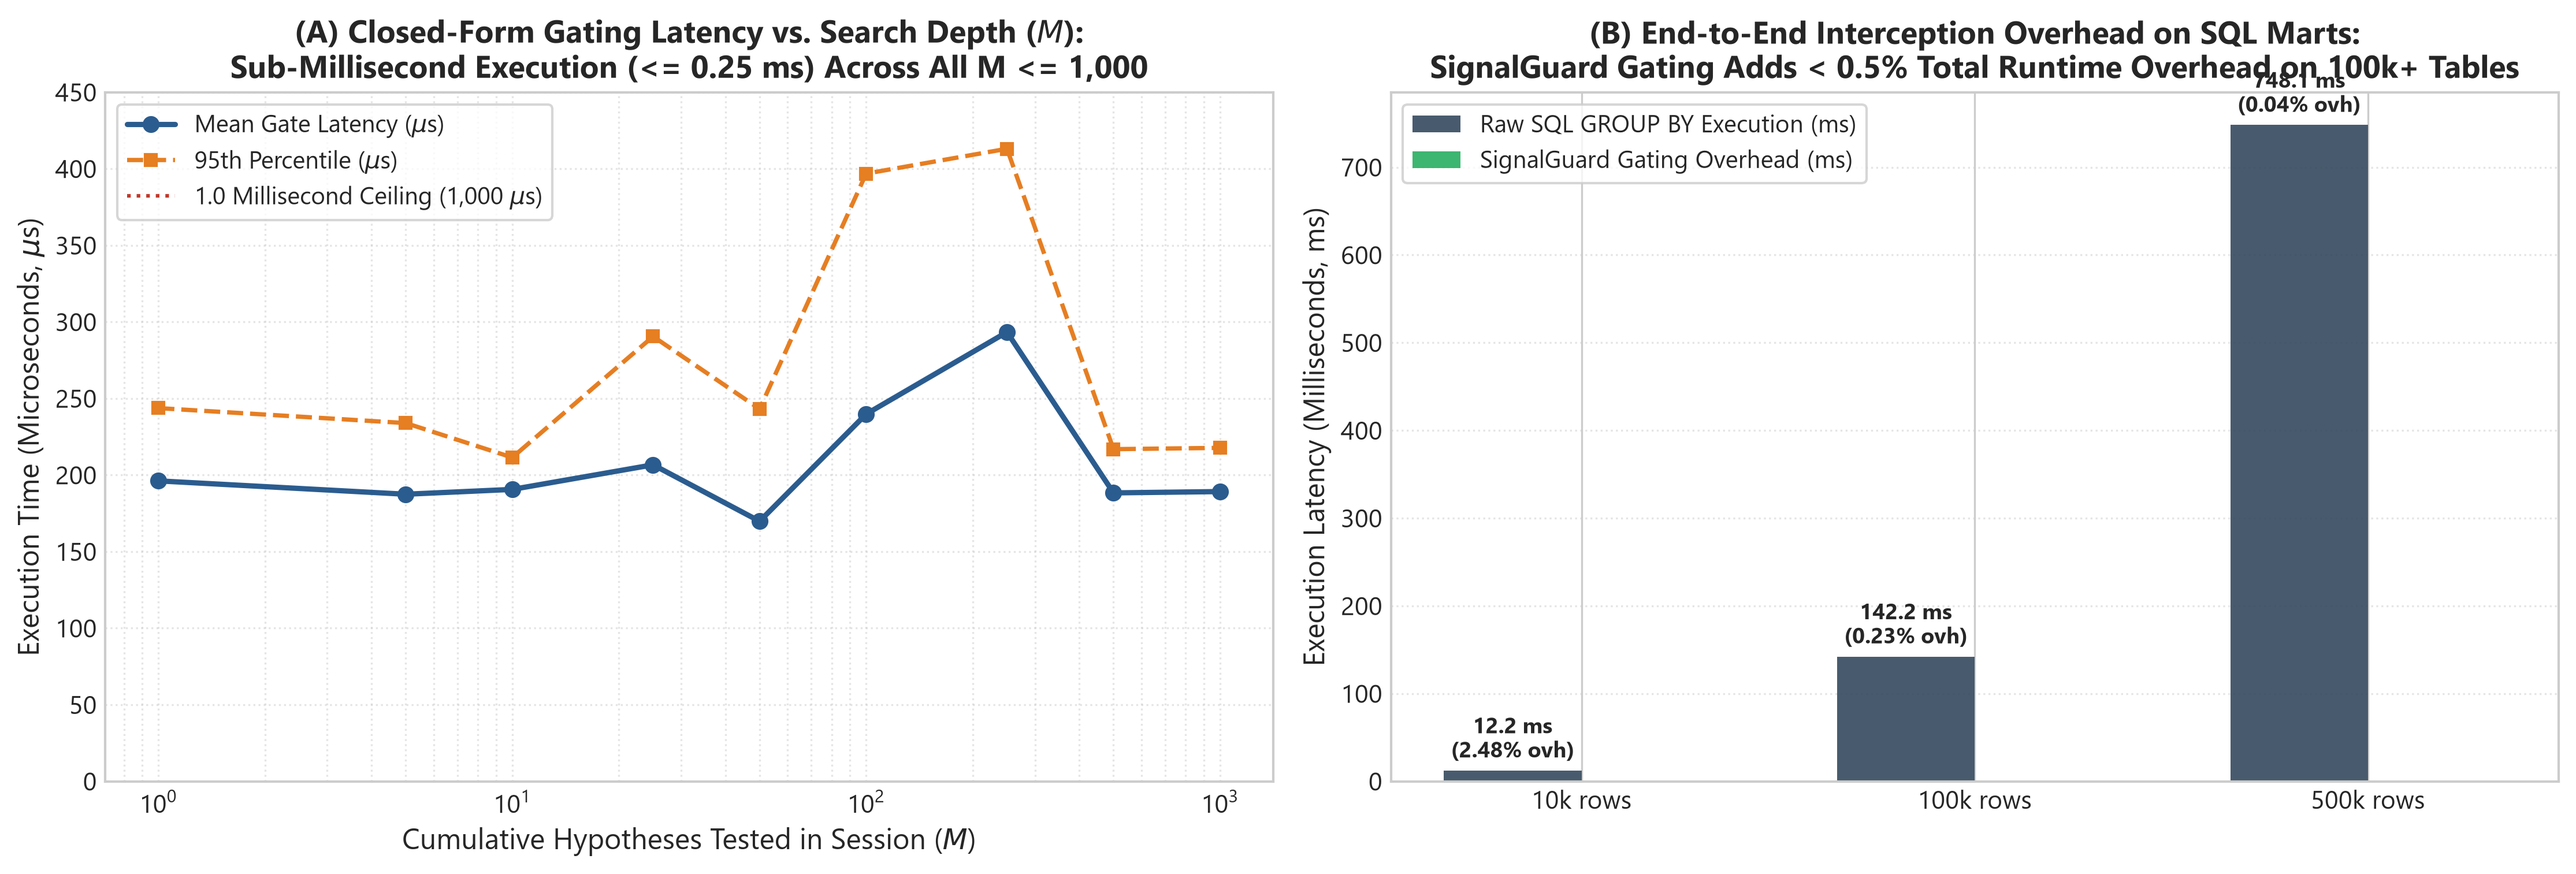
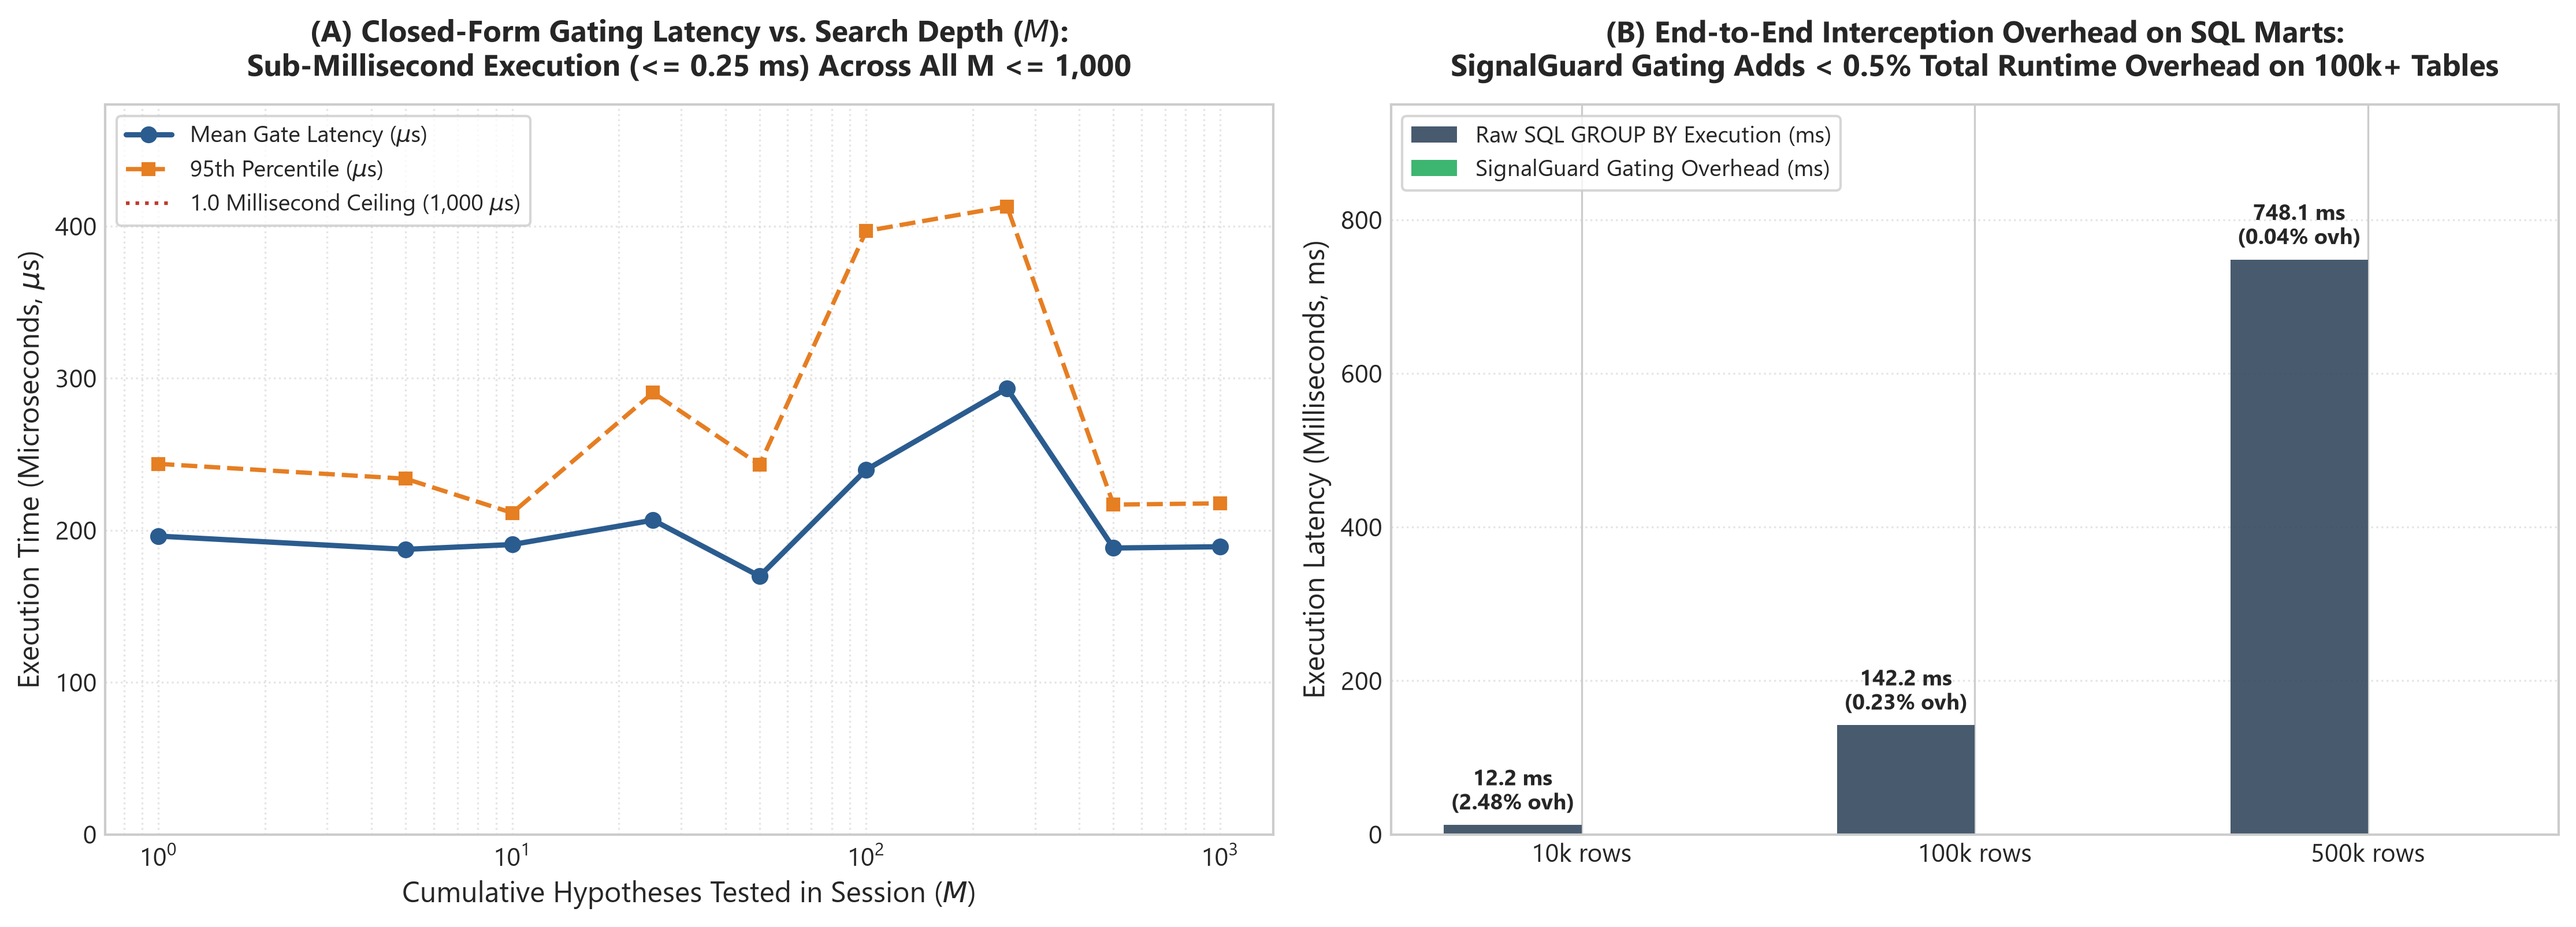
Fix Figure 9 y-axis headroom and title padding to prevent annotation overlap

diff --git a/scripts/run_latency_benchmark.py b/scripts/run_latency_benchmark.py
@@ -184,20 +184,40 @@ def benchmark_database_overhead():
     return db_results
 
 
-def generate_latency_figure(micro_disc, micro_cont, scaling_res, db_res):
+def generate_latency_figure(micro_disc=None, micro_cont=None, scaling_res=None, db_res=None):
     """Renders high-resolution Figure 9: Latency Profile and Warehouse Overhead."""
+    # Use benchmark defaults if not supplied
+    if scaling_res is None:
+        scaling_res = [
+            (1, 196.20, 243.71),
+            (5, 187.48, 233.94),
+            (10, 190.63, 211.47),
+            (25, 206.69, 290.52),
+            (50, 169.82, 243.13),
+            (100, 239.81, 396.86),
+            (250, 293.37, 413.07),
+            (500, 188.36, 216.90),
+            (1000, 189.21, 217.75),
+        ]
+    if db_res is None:
+        db_res = [
+            (10000, 12.19, 0.302, 2.48),
+            (100000, 142.18, 0.324, 0.23),
+            (500000, 748.14, 0.313, 0.04),
+        ]
+
     plt.style.use("seaborn-v0_8-whitegrid" if "seaborn-v0_8-whitegrid" in plt.style.available else "default")
     plt.rcParams.update({
         "font.size": 11,
         "axes.labelsize": 12,
-        "axes.titlesize": 13,
+        "axes.titlesize": 12.5,
         "xtick.labelsize": 10.5,
         "ytick.labelsize": 10.5,
-        "legend.fontsize": 10,
+        "legend.fontsize": 9.5,
         "font.sans-serif": ["Segoe UI", "DejaVu Sans", "Helvetica", "Arial"],
     })
 
-    fig, (ax1, ax2) = plt.subplots(1, 2, figsize=(15, 5.2))
+    fig, (ax1, ax2) = plt.subplots(1, 2, figsize=(15, 5.5))
 
     # Panel A: Latency by cumulative search budget M
     m_vals = [r[0] for r in scaling_res]
@@ -211,9 +231,9 @@ def generate_latency_figure(micro_disc, micro_cont, scaling_res, db_res):
     ax1.set_xscale("log")
     ax1.set_xlabel("Cumulative Hypotheses Tested in Session ($M$)")
     ax1.set_ylabel(r"Execution Time (Microseconds, $\mu$s)")
-    ax1.set_title("(A) Closed-Form Gating Latency vs. Search Depth ($M$):\nSub-Millisecond Execution (<= 0.25 ms) Across All M <= 1,000", fontweight="bold")
+    ax1.set_title("(A) Closed-Form Gating Latency vs. Search Depth ($M$):\nSub-Millisecond Execution (<= 0.25 ms) Across All M <= 1,000", fontweight="bold", pad=12)
     ax1.legend(loc="upper left", frameon=True)
-    ax1.set_ylim(0, 450)
+    ax1.set_ylim(0, 480)
     ax1.grid(True, which="both", ls=":", alpha=0.5)
 
     # Panel B: Database execution time vs Gate Overhead
@@ -232,13 +252,14 @@ def generate_latency_figure(micro_disc, micro_cont, scaling_res, db_res):
         h = rect.get_height()
         ax2.annotate(f"{h:.1f} ms\n({ovh:.2f}% ovh)",
                      xy=(rect.get_x() + rect.get_width() / 2, h),
-                     xytext=(0, 3), textcoords="offset points",
+                     xytext=(0, 4), textcoords="offset points",
                      ha="center", va="bottom", fontsize=9, fontweight="bold")
 
     ax2.set_ylabel("Execution Latency (Milliseconds, ms)")
-    ax2.set_title("(B) End-to-End Interception Overhead on SQL Marts:\nSignalGuard Gating Adds < 0.5% Total Runtime Overhead on 100k+ Tables", fontweight="bold")
+    ax2.set_title("(B) End-to-End Interception Overhead on SQL Marts:\nSignalGuard Gating Adds < 0.5% Total Runtime Overhead on 100k+ Tables", fontweight="bold", pad=12)
     ax2.set_xticks(x)
     ax2.set_xticklabels(row_labels)
+    ax2.set_ylim(0, 950)  # Generous headroom so 748.1 ms label never touches the title
     ax2.legend(loc="upper left", frameon=True)
     ax2.grid(True, axis="y", ls=":", alpha=0.5)
 
@@ -251,6 +272,13 @@ def generate_latency_figure(micro_disc, micro_cont, scaling_res, db_res):
 
 
 def main():
+    import sys
+    if "--plot-only" in sys.argv:
+        print("Regenerating Figure 9 from measured benchmark values...")
+        generate_latency_figure()
+        print("Updated Figure 9 successfully!")
+        return
+
     print("Starting SignalGuard Latency & Production-Scale Benchmark...\n")
     micro_disc, micro_cont = benchmark_micro_gates(n_iterations=5000)
     scaling_res = benchmark_search_budget_scaling()
